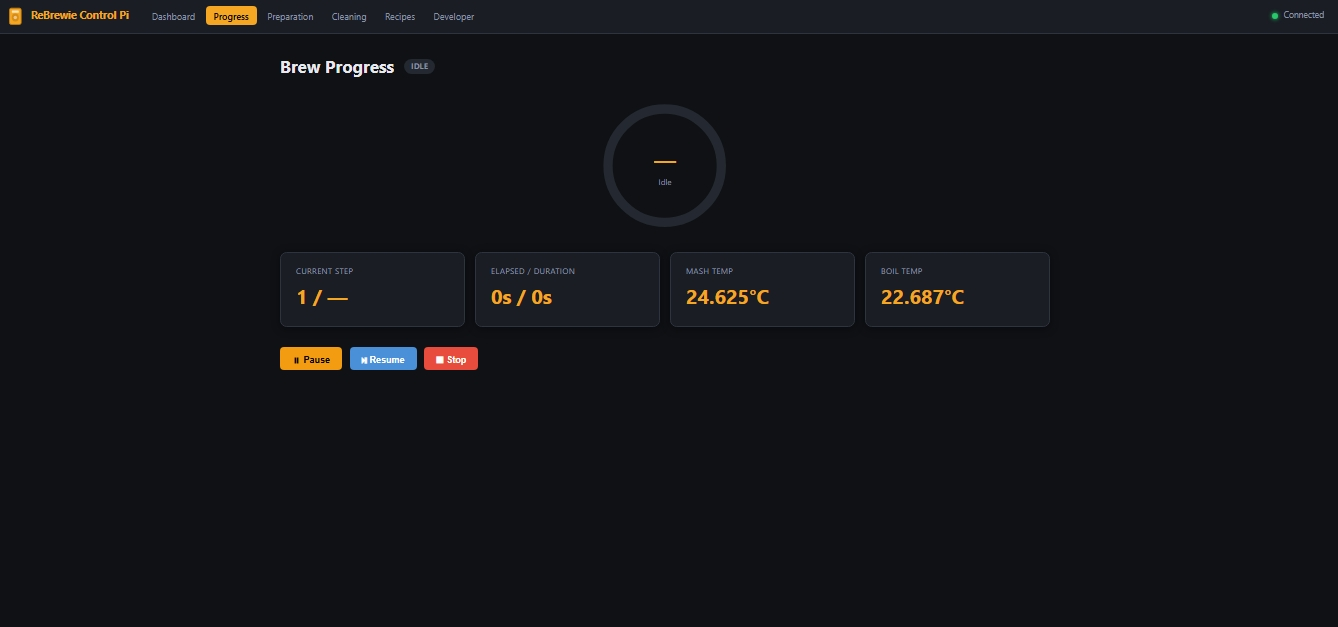
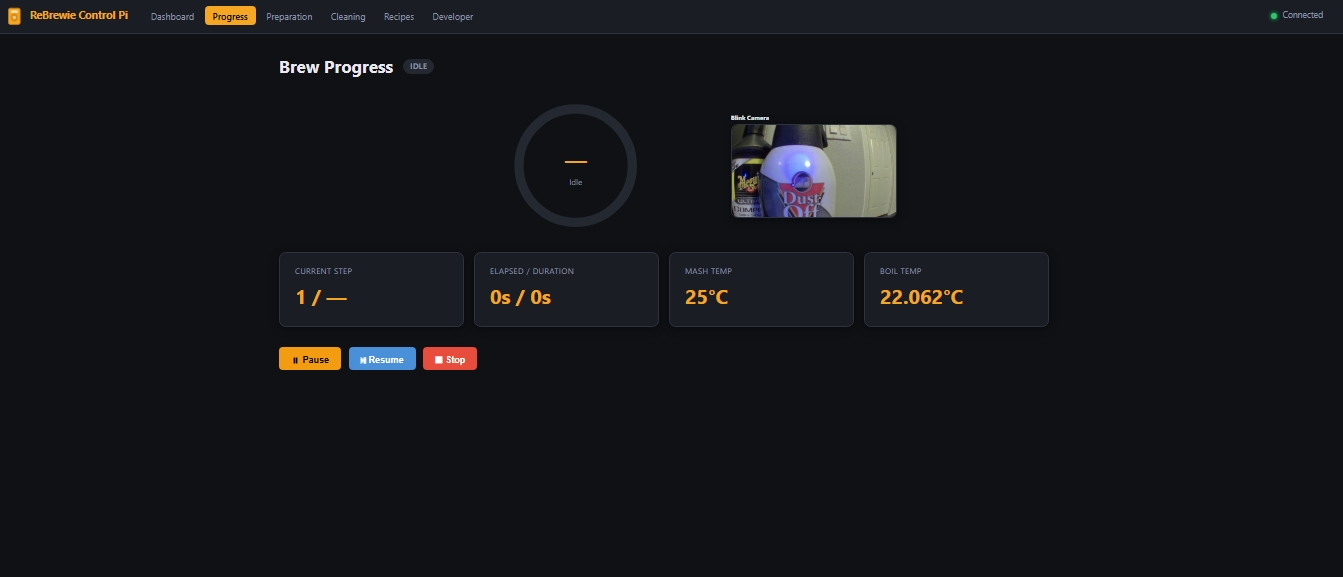
Redact public device identifiers and refresh screenshots

diff --git a/scripts/check_pi_telemetry.py b/scripts/check_pi_telemetry.py
@@ -5,8 +5,8 @@ This script uses only the Python standard library so it can be run from the
 Raspberry Pi project folder without installing extra packages.
 
 Examples:
-  python3 scripts/check_pi_telemetry.py --base http://192.168.1.113:8080
-  python3 scripts/check_pi_telemetry.py --host 192.168.1.113 --port 8080
+  python3 scripts/check_pi_telemetry.py --base http://192.168.1.XXX:8080
+  python3 scripts/check_pi_telemetry.py --host 192.168.1.XXX --port 8080
 """
 from __future__ import annotations
 
@@ -50,9 +50,9 @@ def parse_v7_temperatures(raw: str) -> tuple[float | None, float | None]:
 
 def main() -> int:
     parser = argparse.ArgumentParser(description="Check ReBrewie Control Pi telemetry")
-    parser.add_argument("--host", default="192.168.1.113", help="Control Pi host/IP")
+    parser.add_argument("--host", default="192.168.1.XXX", help="Control Pi host/IP")
     parser.add_argument("--port", type=int, default=8080, help="Control Pi web port")
-    parser.add_argument("--base", help="Full Control Pi base URL, e.g. http://192.168.1.113:8080")
+    parser.add_argument("--base", help="Full Control Pi base URL, e.g. http://192.168.1.XXX:8080")
     parser.add_argument("--timeout", type=float, default=5.0)
     args = parser.parse_args()
 
@@ -108,7 +108,7 @@ def main() -> int:
     if not connected:
         print("- connected is not true; check service logs and Brewie network reachability.")
     if not transport_ok:
-        print("- transport_type is not tcp; run sudo scripts/configure_brewie_tcp.sh 192.168.1.132 9000.")
+        print("- transport_type is not tcp; run sudo scripts/configure_brewie_tcp.sh 192.168.1.XXX 9000.")
     if not has_v7:
         print("- no V7 telemetry found yet; wait a few seconds and refresh /api/log?n=200.")
     if has_v7 and not temps_ok:

diff --git a/scripts/test_brewie_tcp_bridge.py b/scripts/test_brewie_tcp_bridge.py
@@ -2,10 +2,10 @@
 """Quick stdlib-only TCP smoke test for the Brewie tty_tcp_bridge.
 
 Examples:
-  python3 scripts/test_brewie_tcp_bridge.py --host 192.168.1.132 --port 9000
-  python3 scripts/test_brewie_tcp_bridge.py --host 192.168.1.132 --port 9000 --cmd P80
-  python3 scripts/test_brewie_tcp_bridge.py --host 192.168.1.132 --port 9000 --cmd STATUS --line-ending cr
-  python3 scripts/test_brewie_tcp_bridge.py --host 192.168.1.132 --port 9000 --cmd STATUS --try-line-endings
+  python3 scripts/test_brewie_tcp_bridge.py --host 192.168.1.XXX --port 9000
+  python3 scripts/test_brewie_tcp_bridge.py --host 192.168.1.XXX --port 9000 --cmd P80
+  python3 scripts/test_brewie_tcp_bridge.py --host 192.168.1.XXX --port 9000 --cmd STATUS --line-ending cr
+  python3 scripts/test_brewie_tcp_bridge.py --host 192.168.1.XXX --port 9000 --cmd STATUS --try-line-endings
 """
 from __future__ import annotations
 
@@ -73,7 +73,7 @@ def send_once(
 
 def main() -> int:
     parser = argparse.ArgumentParser(description="Test Brewie TCP bridge connectivity")
-    parser.add_argument("--host", default="192.168.1.132")
+    parser.add_argument("--host", default="192.168.1.XXX")
     parser.add_argument("--port", type=int, default=9000)
     parser.add_argument("--cmd", default="", help="optional command to send after connecting")
     parser.add_argument("--timeout", type=float, default=3.0)

diff --git a/app/config.py b/app/config.py
@@ -25,12 +25,12 @@ class Settings(BaseSettings):
     brewie_transport: str = Field("tcp", alias="BREWIE_TRANSPORT")
 
     # TCP
-    brewie_host: str = Field("192.168.1.132", alias="BREWIE_HOST")
+    brewie_host: str = Field("192.168.1.XXX", alias="BREWIE_HOST")
     brewie_port: int = Field(9000, alias="BREWIE_PORT")
     brewie_tcp_framing: bool = Field(True, alias="BREWIE_TCP_FRAMING")
 
     # HTTP bridge
-    brewie_http_base: str = Field("http://192.168.1.113:8080", alias="BREWIE_HTTP_BASE")
+    brewie_http_base: str = Field("http://192.168.1.XXX:8080", alias="BREWIE_HTTP_BASE")
 
     # Serial / USB
     brewie_serial_port: str = Field("/dev/ttyUSB0", alias="BREWIE_SERIAL_PORT")
@@ -52,7 +52,7 @@ class Settings(BaseSettings):
     auth_require_for_remote: bool = Field(True, alias="AUTH_REQUIRE_FOR_REMOTE")
     auth_require_for_local: bool = Field(True, alias="AUTH_REQUIRE_FOR_LOCAL")
     remote_public_hostname: str = Field("", alias="REMOTE_PUBLIC_HOSTNAME")
-    machine_id: str = Field("HN0251807090304", alias="MACHINE_ID")
+    machine_id: str = Field("HNXXXXXXXXXXXXXX", alias="MACHINE_ID")
     machine_registry_file: str = Field("machine-registration.json", alias="MACHINE_REGISTRY_FILE")
 
     # Blink camera snapshot feed

diff --git a/README.md b/README.md
@@ -38,6 +38,10 @@ The app runs a FastAPI web server on the Raspberry Pi and communicates with the 
 
 The web interface is available from any browser on the same LAN at `http://<pi-ip>:8080` after installation.
 
+### Login Screen
+
+![Login Screen](docs/screenshots/login.jpeg)
+
 ### Dashboard
 
 ![Dashboard](docs/screenshots/dashboard.jpeg)
@@ -62,6 +66,9 @@ The web interface is available from any browser on the same LAN at `http://<pi-i
 
 ![Developer](docs/screenshots/developer.jpeg)
 
+### Settings
+
+![Settings](docs/screenshots/settings.jpeg)
 ## Tech Stack
 
 - Python 3.11+ / Python 3.13 on Raspberry Pi OS
@@ -99,7 +106,7 @@ contrib/brewie-machine/
 Deploy from Windows:
 
 ```powershell
-.\deploy-to-brewie.ps1 -Host 192.168.1.132 -User root -Password "your-password"
+.\deploy-to-brewie.ps1 -Host 192.168.1.XXX -User root -Password "your-password"
 ```
 
 Then review `contrib/brewie-machine/README.md` for probe and bridge options.
@@ -117,7 +124,7 @@ Important values:
 
 ```env
 BREWIE_TRANSPORT=tcp
-BREWIE_HOST=192.168.1.132
+BREWIE_HOST=192.168.1.XXX
 BREWIE_PORT=9000
 BREWIE_TCP_FRAMING=true
 LOCAL_BIND=0.0.0.0
@@ -211,10 +218,10 @@ If the dashboard still shows the raw full-size image, hard-refresh the browser s
 For remote access outside the local network, the recommended proof-of-concept setup is Cloudflare Tunnel in front of the existing Pi web app. The verified test route used:
 
 ```text
-https://rebrewie-pi.commogrunt.com -> http://192.168.1.113:8080
+https://rebrewie-pi.commogrunt.com -> http://192.168.1.XXX:8080
 ```
 
-When the tunnel connector runs on a Windows desktop or another LAN device, the public hostname service URL must point to the Pi's LAN address (`192.168.1.113:8080`). Use `localhost:8080` only if `cloudflared` is running on the same Raspberry Pi as this app.
+When the tunnel connector runs on a Windows desktop or another LAN device, the public hostname service URL must point to the Pi's LAN address (`192.168.1.XXX:8080`). Use `localhost:8080` only if `cloudflared` is running on the same Raspberry Pi as this app.
 
 Before exposing the app through any public hostname, enable app login in `.env`:
 
@@ -224,7 +231,7 @@ AUTH_ALLOW_INITIAL_REGISTRATION=true
 AUTH_REQUIRE_FOR_REMOTE=true
 AUTH_REQUIRE_FOR_LOCAL=true
 REMOTE_PUBLIC_HOSTNAME=rebrewie-pi.commogrunt.com
-MACHINE_ID=HN0251807090304
+MACHINE_ID=HNXXXXXXXXXXXXXX
 ```
 
 On first visit, the app redirects to `/register` when no owner account exists yet. That registration screen creates the owner username/password and binds the account to the Brewie machine ID/serial number. The registration is stored locally in `owner-registration.json`, which should stay private and should not be committed to GitHub.
@@ -299,10 +306,10 @@ Configuration is handled by environment variables, usually through `.env`.
 | Variable | Default | Purpose |
 | --- | --- | --- |
 | `BREWIE_TRANSPORT` | `tcp` | `tcp`, `http`, `serial`, or `mock` |
-| `BREWIE_HOST` | `192.168.1.132` | Brewie machine IP |
+| `BREWIE_HOST` | `192.168.1.XXX` | Brewie machine IP |
 | `BREWIE_PORT` | `9000` | Brewie TCP bridge port |
 | `BREWIE_TCP_FRAMING` | `true` | Enable stock Brewie frame wrapping |
-| `BREWIE_HTTP_BASE` | `http://192.168.1.113:8080` | HTTP bridge base URL |
+| `BREWIE_HTTP_BASE` | `http://192.168.1.XXX:8080` | HTTP bridge base URL |
 | `BREWIE_SERIAL_PORT` | `/dev/ttyUSB0` | Serial device path |
 | `BREWIE_SERIAL_BAUD` | `115200` | Serial baud rate |
 | `LOCAL_BIND` | `0.0.0.0` | Web bind address |
@@ -318,7 +325,7 @@ Configuration is handled by environment variables, usually through `.env`.
 | `AUTH_REQUIRE_FOR_REMOTE` | `true` | Require login when accessed through `REMOTE_PUBLIC_HOSTNAME` |
 | `AUTH_REQUIRE_FOR_LOCAL` | `true` | Require login for local LAN/IP access |
 | `REMOTE_PUBLIC_HOSTNAME` | empty | Hostname that should show the remote connection indicator |
-| `MACHINE_ID` | `HN0251807090304` | Default registered Brewie machine ID/serial |
+| `MACHINE_ID` | `HNXXXXXXXXXXXXXX` | Default registered Brewie machine ID/serial |
 | `MACHINE_REGISTRY_FILE` | `machine-registration.json` | Writable machine registration file |
 | `BLINK_ENABLED` | `false` | Enable the optional Progress page camera panel |
 | `BLINK_USERNAME` | empty | Blink account username/email |
@@ -358,19 +365,19 @@ python3 scripts/check_pi_telemetry.py --url http://<pi-ip>:8080
 ### Windows to Raspberry Pi
 
 ```powershell
-.\deploy-to-pi.ps1 -HostName 192.168.1.113 -User pi -Password "your-password"
+.\deploy-to-pi.ps1 -HostName 192.168.1.XXX -User pi -Password "your-password"
 ```
 
 ### Linux/macOS to Raspberry Pi
 
 ```bash
-PI_HOST=192.168.1.113 PI_USER=pi APP_DIR=/opt/rebrewie-control-pi scripts/deploy_to_pi.sh
+PI_HOST=192.168.1.XXX PI_USER=pi APP_DIR=/opt/rebrewie-control-pi scripts/deploy_to_pi.sh
 ```
 
 ### Brewie helper tools
 
 ```powershell
-.\deploy-to-brewie.ps1 -Host 192.168.1.132 -User root -Password "your-password"
+.\deploy-to-brewie.ps1 -Host 192.168.1.XXX -User root -Password "your-password"
 ```
 
 ## Run Locally

diff --git a/docs/ConfigureDeviceRequest.md b/docs/ConfigureDeviceRequest.md
@@ -13,7 +13,7 @@ Includes IP, port, and transport type.
 ## Usage Example
 
 ```json
-{ "ip": "192.168.1.132", "port": 9000, "transport_type": "tcp" }
+{ "ip": "192.168.1.XXX", "port": 9000, "transport_type": "tcp" }
 ```
 
 ## Design Notes

diff --git a/docs/screenshots/README.md b/docs/screenshots/README.md
@@ -2,9 +2,11 @@
 
 This folder contains screenshots used by the main README.
 
+- login.jpeg
 - dashboard.jpeg
 - progress.jpeg
 - preparation.jpeg
 - cleaning.jpeg
 - recipes.jpeg
 - developer.jpeg
+- settings.jpeg